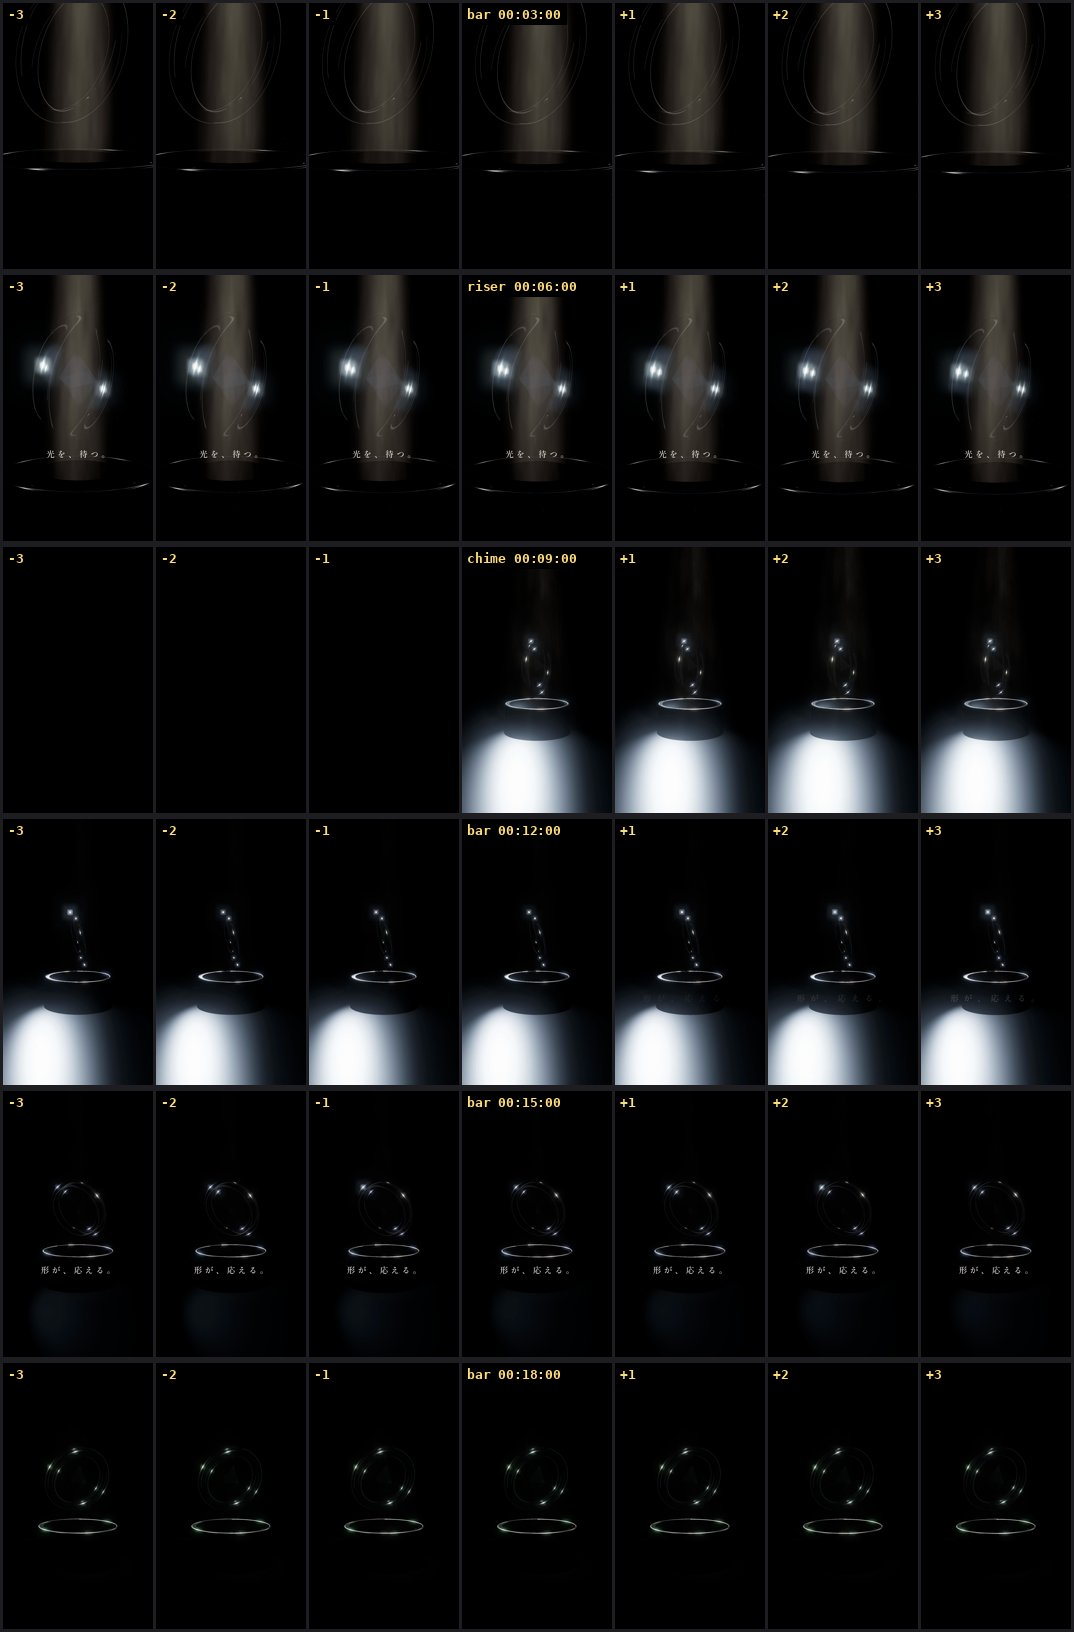
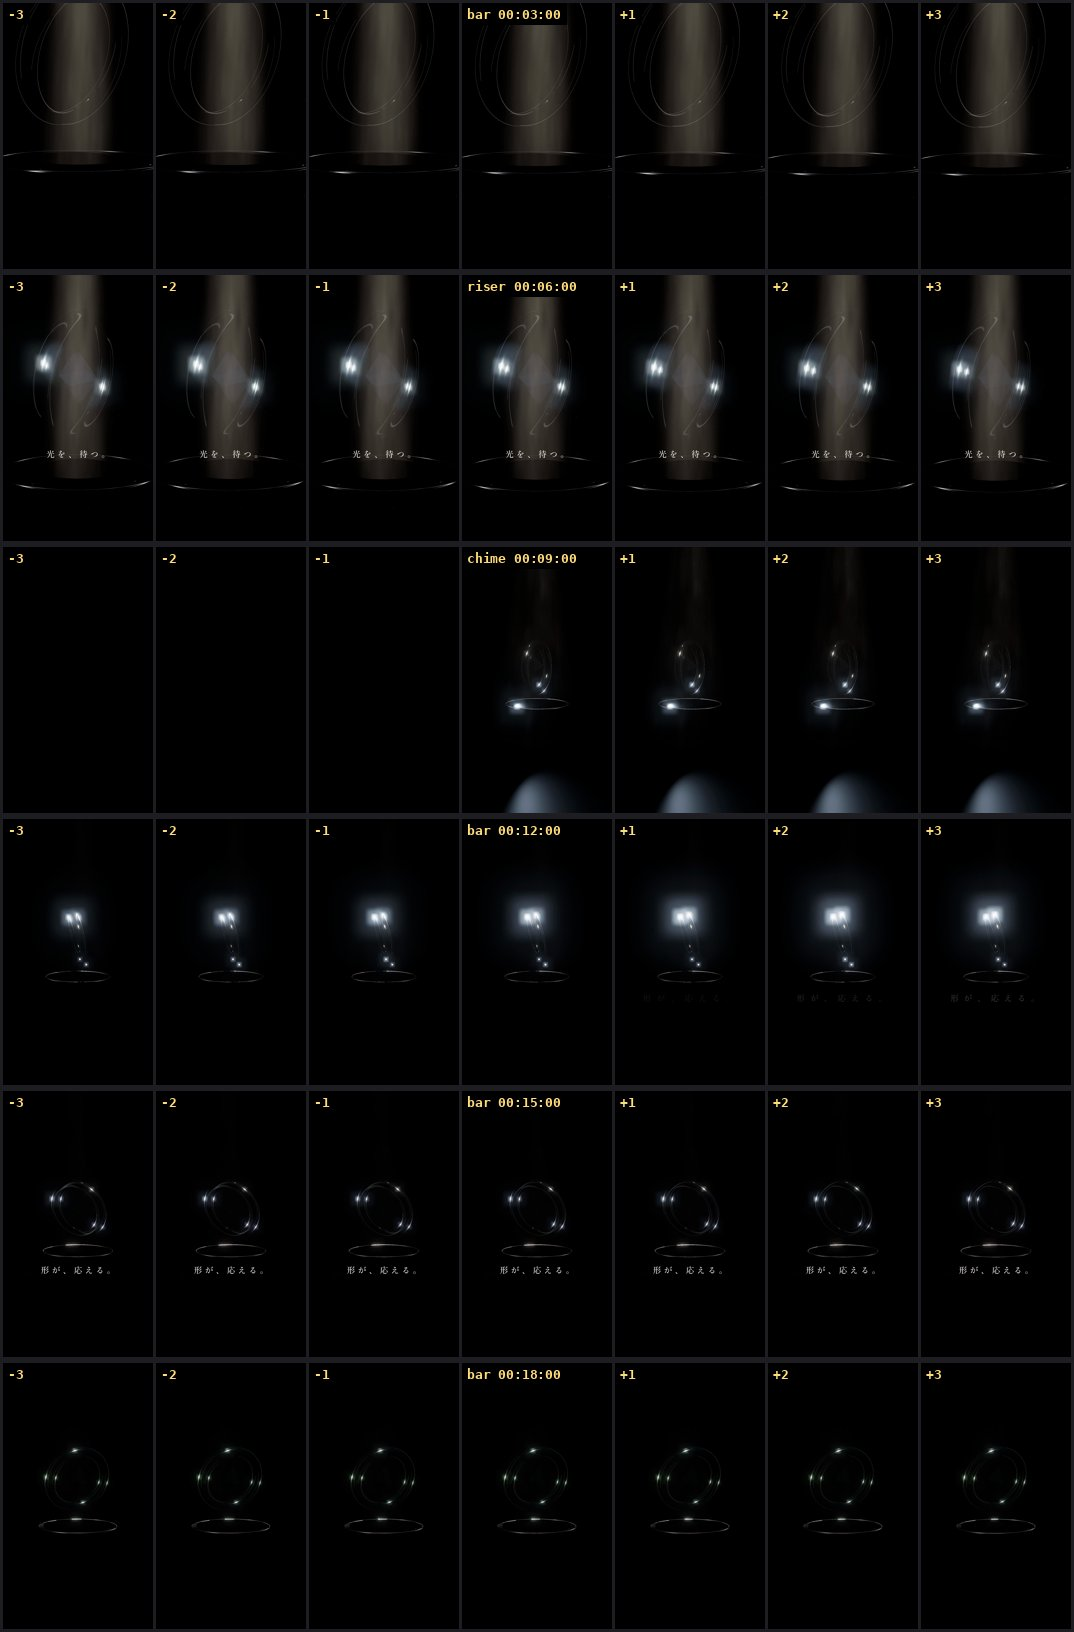
P019：暗すぎて黒味と判定された区間を明るく（露出・キーの範囲・寄り）、ブルームを切って四角い光の膨らみをなくす。書き出し直し中
Claude-Session: https://claude.ai/code/session_01BwmUGTgfPEj1Tu5124aDtq

diff --git a/studio/projects/P019-brandfilm/scene.html b/studio/projects/P019-brandfilm/scene.html
@@ -18,9 +18,9 @@
 import * as C from '/tools/cine/cine.js';
 const {lerp,prog,ease}=C;
 const W=innerWidth,H=innerHeight,TALL=H>W;
-const S=C.createStage({width:W,height:H,exposure:1.05,fov:TALL?42:26,envIntensity:.08,dof:false});   // 被写界深度を切る（ガラスの細かいハイライトが四角いボケになる）
+const S=C.createStage({width:W,height:H,exposure:1.35,fov:TALL?42:26,envIntensity:.08,dof:false});   // 被写界深度を切る（ガラスの細かいハイライトが四角いボケになる）
 const {THREE,scene,camera}=S;
-if(S.bloom){S.bloom.threshold=1.8;S.bloom.strength=.22;S.bloom.radius=.6;}   // 点の鏡面反射が四角く膨らまないよう、ブルームは弱く
+if(S.bloom){S.bloom.enabled=false;}   // ブルームは切る（ガラスの点の鏡面反射が、ブルームの粗い段で四角く膨らむ）
 // 映り込みの環境：既定の部屋（四角い照明パネル）はガラスに四角く映るので、暗い部屋に細い縦長のストリップ2本と、上の細い輪だけにする
 {const env=new THREE.Scene();env.background=new THREE.Color(0x000000);const sm=new THREE.MeshBasicMaterial({color:new THREE.Color(1,.97,.92).multiplyScalar(5)});
  for(const [x,z] of [[-4,1.5],[4.5,-1]]){const m=new THREE.Mesh(new THREE.BoxGeometry(.18,10,.18),sm);m.position.set(x,1,z);env.add(m);}
@@ -41,14 +41,14 @@ const add=(g,m,x,y,z,p=OBJ)=>{const o=new THREE.Mesh(g,m);o.position.set(x,y,z);
 add(new THREE.CylinderGeometry(.56,.6,.52,128),C.brushedMetal(0x232428,.34),0,.26,0);
 add(new THREE.TorusGeometry(.56,.008,12,160),C.chrome(.12),0,.52,0).rotation.x=Math.PI/2;
 add(new THREE.CylinderGeometry(.5,.5,.004,96),new THREE.MeshPhysicalMaterial({color:0x0b0b0c,roughness:.12,metalness:.9}),0,.522,0);
-const glass=new THREE.MeshPhysicalMaterial({color:0x07090c,metalness:0,roughness:.12,transparent:true,opacity:.32,depthWrite:false,side:THREE.DoubleSide,envMapIntensity:3.2,clearcoat:1,clearcoatRoughness:.08,specularIntensity:.7,iridescence:.35,iridescenceIOR:1.3});   // 透過（transmission）は四角いにじみが出るので使わず、暗いガラスの映り込みで見せる
+const glass=new THREE.MeshPhysicalMaterial({color:0x07090c,metalness:0,roughness:.18,transparent:true,opacity:.32,depthWrite:false,side:THREE.DoubleSide,envMapIntensity:3.2,clearcoat:.6,clearcoatRoughness:.15,specularIntensity:.55,iridescence:.35,iridescenceIOR:1.3});   // 透過（transmission）は四角いにじみが出るので使わず、暗いガラスの映り込みで見せる
 const RING=new THREE.Group();RING.position.set(0,1.18,0);OBJ.add(RING);
 const ring=add(new THREE.TorusGeometry(.42,.075,96,320),glass,0,0,0,RING);
 const gem=add(new THREE.OctahedronGeometry(.15,0),glass,0,0,0,RING);gem.scale.set(1,1.5,1);
 // 光：細い上の一灯（待つ）、横から走る光、ヒーローの3灯（キー・リム・トップ）、結びの真上の一灯
 const slit=C.spot(scene,{pos:[0,5.2,.3],target:[0,.52,0],color:0xfff1de,intensity:0,angle:.06,penumbra:.5});
 const sweep=C.spot(scene,{pos:[3,1.4,2],target:[0,1.18,0],color:0xe8f0ff,intensity:0,angle:.09,penumbra:.4,shadow:false});
-const key=C.spot(scene,{pos:[1.7,4.6,2.1],target:[0,.95,0],color:0xfff0de,intensity:0,angle:.13,penumbra:.8});   // 高い位置から絞って、円錐の端が台の上で終わるように（床に光だまりを作らない）   // 床に強い光だまりを作らないよう、オブジェだけに絞る
+const key=C.spot(scene,{pos:[1.7,4.6,2.1],target:[0,.7,0],color:0xfff0de,intensity:0,angle:.2,penumbra:.85});   // 高い位置から、輪と台を一緒に照らす（光だまりは台の足もとだけ）   // 床に強い光だまりを作らないよう、オブジェだけに絞る
 const rim=C.spot(scene,{pos:[-2.4,1.35,-2.8],target:[0,1.18,0],color:0xa9c4ff,intensity:0,angle:.2,penumbra:.7,shadow:false});   // ほぼ水平に当てる（下向きだと手前の床に光だまりができる）
 const top=C.spot(scene,{pos:[0,5.5,0],target:[0,0,0],color:0xfff4e4,intensity:0,angle:.2,penumbra:.6});
 const beamS=C.beam(scene,{from:[0,5.2,.3],to:[0,.52,0],radius:.3,color:0xfff1de,density:.28});
@@ -73,9 +73,9 @@ window.renderAt=t=>{
   RING.rotation.set(.38+Math.sin(t*.21)*.06,t*.18,Math.sin(t*.13)*.05);gem.rotation.set(0,-t*.5,0);
   // 1幕：細い光が台の縁から立ち上がり、横の光がガラスを一度だけ走る
   let k=0,r=0,tp=0,sl=0,sw=0,bs=0,bt=0;
-  if(t<B1){sl=lerp(45,140,ease.inOutSine(prog(t,0,2.6)));bs=lerp(.35,.9,ease.inOutSine(prog(t,0,2.6)));   /* フレーム0から細い光が見えている */
+  if(t<B1){sl=lerp(90,160,ease.inOutSine(prog(t,0,2.6)));bs=lerp(.6,1.0,ease.inOutSine(prog(t,0,2.6)));   /* フレーム0から細い光が見えている */
     const u=prog(t,4.2,3.2);sw=Math.sin(Math.PI*u)*260;sweep.position.set(lerp(3.2,-3.2,ease.inOutSine(u)),1.5,lerp(1.6,2.4,u));}
-  else if(t>=HIT&&t<B2){const u=t-HIT;k=(u<1/30?560:lerp(560,420,prog(t,HIT,2)))*(t>=21?lerp(1,.75,prog(t,21,2.2)):1);r=180;tp=lerp(30,12,prog(t,HIT,3));bt=lerp(.55,.25,prog(t,HIT,3));
+  else if(t>=HIT&&t<B2){const u=t-HIT;k=(u<1/30?900:lerp(900,700,prog(t,HIT,2)))*(t>=21?lerp(1,.75,prog(t,21,2.2)):1);r=180;tp=lerp(30,12,prog(t,HIT,3));bt=lerp(.55,.25,prog(t,HIT,3));
     // 15〜21 秒：キーの光の色温度を暖から冷へ、リムを冷から暖へ入れ替えながら、光源を回す
     const w=ease.inOutSine(prog(t,15,6));key.color.setHSL(lerp(.09,.6,w),lerp(.5,.25,w),.82);rim.color.setHSL(lerp(.6,.08,w),lerp(.6,.55,w),.72);
     const a=lerp(.7,-.6,w);key.position.set(Math.sin(a)*2.7,4.6,Math.cos(a)*2.7);}
@@ -86,7 +86,7 @@ window.renderAt=t=>{
   // カメラ：1幕は台の縁とガラスの寄り（ゆっくり回り込む）。2幕は中景で回り込み、終盤に寄る。3幕は正面で止まる（最後の2秒は静止）
   let P,L;
   if(t<B1){const u=.25*prog(t,0,B1)+.75*ease.inOutSine(prog(t,0,B1)),a=lerp(-.55,.25,u);   /* 頭から動いている（等速を少し混ぜる） */const d=TALL?lerp(2.1,2.6,u):lerp(1.5,2.0,u);P=V(Math.sin(a)*d,lerp(.62,1.2,u),Math.cos(a)*d);L=V(0,lerp(.5,1.1,u),0);}
-  else if(t<B2){const u=ease.inOutSine(prog(t,HIT,B2-HIT)),a=lerp(.55,-.75,u),d=(TALL?lerp(6.2,4.4,u):lerp(5.0,3.4,u))-(t>21?ease.inOutCubic(prog(t,21,2.25))*.9:0);P=V(Math.sin(a)*d,lerp(1.6,1.35,u),Math.cos(a)*d);L=V(0,TALL?.95:.9,0);}   // 横長は輪と台を画面の中に収め、テロップは下の帯に置く
+  else if(t<B2){const u=ease.inOutSine(prog(t,HIT,B2-HIT)),a=lerp(.55,-.75,u),d=(TALL?lerp(4.9,3.6,u):lerp(5.0,3.4,u))-(t>21?ease.inOutCubic(prog(t,21,2.25))*.9:0);P=V(Math.sin(a)*d,lerp(1.6,1.35,u),Math.cos(a)*d);L=V(0,TALL?.95:.9,0);}   // 横長は輪と台を画面の中に収め、テロップは下の帯に置く
   else{const u=ease.outCubic(prog(t,END,4));P=V(0,lerp(1.5,1.62,u),(TALL?lerp(6.4,6.1,u):lerp(5.6,5.3,u)));L=V(0,TALL?.55:.55,0);}   // 名前の上にオブジェを置く
   camera.position.copy(P);camera.lookAt(L);
   if(S.bokeh){const d=camera.position.distanceTo(ringW);S.bokeh.uniforms.focus.value=t<B1?camera.position.distanceTo(V(0,.52,0))*lerp(1,0,0)+lerp(0,d-camera.position.distanceTo(V(0,.52,0)),ease.inOutSine(prog(t,3,4))):d;S.bokeh.uniforms.aperture.value=t<B1?.003:.0012;}
